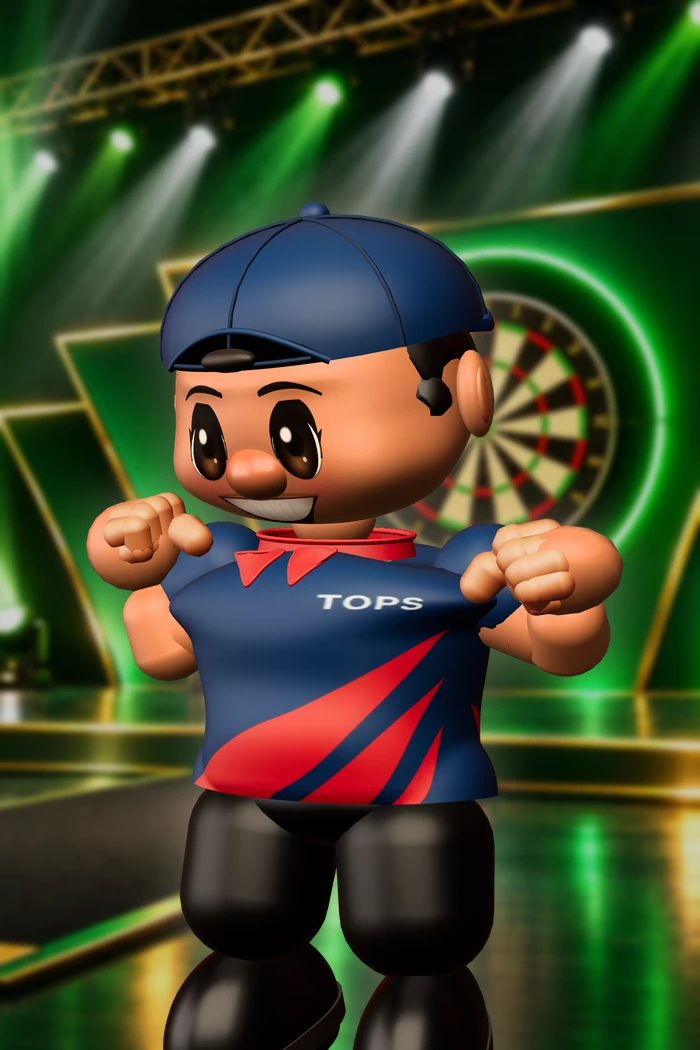
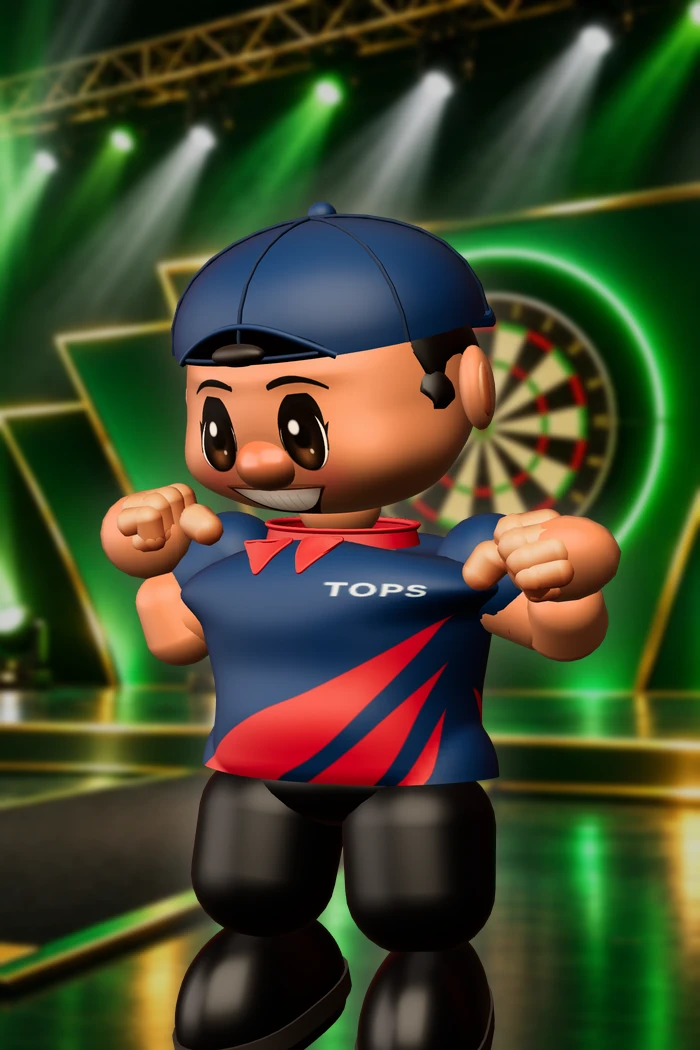
r8c: pro cards, one camera composition for all nine (ChatGPT 7.8, HOLD for switch-on). Each card keeps its doc 71 pose and camera angle; the renderer measures head top, head centre and character height (head top to feet) and zooms (fov) + pans (setViewOffset, no perspective change) to: head top y 20
Claude-Session: https://claude.ai/code/session_01WmQEKVsLutVo52VGmj2r97

diff --git a/tests/v3-cards-render.js b/tests/v3-cards-render.js
@@ -11,19 +11,28 @@ await p.route(/jsdelivr|googleapis|gstatic|supabase\.co/,r=>r.abort());
 await p.addInitScript(([G])=>{try{localStorage.setItem('tops_s3','1');localStorage.setItem('tops_s3_welcome','1');localStorage.setItem('tops_v3','1');localStorage.setItem('tops_v3cast','1');if(G.S3PROS)localStorage.setItem('tops_s3pros','1');}catch(e){}Object.assign(window,G);},[G]);
 await p.goto(`http://127.0.0.1:${srv.address().port}/index.html?s3=1&s3gloss=full&v3cast=1${G.S3PROS?'&s3pros=1':''}`);await p.waitForFunction(()=>typeof V!=='undefined'&&V._qa&&V._qa.rigReady&&V._qa.rigReady(),null,{timeout:240000});
 await p.evaluate(()=>{V.loadAnims();});await p.waitForFunction(()=>V._qa.animNames().length>0,null,{timeout:180000});
-for(const sp of specs){const r=await p.evaluate(async(sp)=>{const Q=V._qa,T=Q.T,R0=Q.renderer;let f;try{f=Q.makeFigure(lookFor(sp.name),sp.name,0);}catch(e){return {err:e.message};}
+for(const sp of specs){const r=await p.evaluate(async(sp)=>{const Q=V._qa,T=Q.T,R0=Q.renderer;let f;try{const CP0=window.TOPS_V3CARDPOSE,LO=(window.__CARDLOOK&&window.__CARDLOOK[sp.id])||sp.look||(CP0&&CP0.table[sp.id]&&CP0.table[sp.id].look);/* r8c: a card-only look tweak (tests/v3-cards-pros.json 'look'): Power's shipping stand-in without the cap */f=Q.makeFigure(Object.assign(lookFor(sp.name),LO||{}),sp.name,0);}catch(e){return {err:e.message};}
   try{TOPS_V2LIGHT.setMode('match');}catch(e){}try{TOPS_V2LIGHT.relight(f);}catch(e){}
   const sc=new T.Scene();sc.add(f);f.position.set(0,0,0);f.rotation.set(0,0,0);if(f.userData.mixer)f.userData.mixer.stopAllAction();f.userData.act=null;
   let pose='cheer';const CP=window.TOPS_V3CARDPOSE,spec=CP&&CP.table[sp.id];if(spec&&CP.apply(f,sp.id))pose='card71';else if(f.userData.persBase&&Q.pers(f,'sig',0.5))pose='sig';else{const a=Q.playClip(f,'cheer',{});if(a){a.time=a.getClip().duration*0.40;f.userData.mixer.update(0);}}
   if(f.userData.dt)f.userData.dt.visible=false;f.traverse(o=>{if(o.userData&&(o.userData.spare||o.userData.dart))o.visible=false;});f.updateMatrixWorld(true);try{TOPS_V2LIGHT.relight(f);}catch(e){}let clip=null;try{const c=TOPS_S3CLIP(f);clip=c?{n:c.checked,bad:['pants','arm','cuff','collar','trim','head','fist','skull','dart'].filter(k=>c[k]).map(k=>k+':'+c[k])}:null;}catch(e){clip={err:String(e)};}
   const h=f.userData.B.Head.getWorldPosition(new T.Vector3()),W=1400,H=2100,C=(spec&&pose==='card71')?spec.cam:{yaw:-22,dist:4.4,y:-.3,ly:-.42,px:0,fov:30},cam=new T.PerspectiveCamera(C.fov||30,W/H,.05,60),rr=C.yaw*Math.PI/180,rt=new T.Vector3(Math.cos(rr),0,Math.sin(rr));
   cam.position.set(h.x+Math.sin(rr)*C.dist,h.y+C.y,h.z-Math.cos(rr)*C.dist).addScaledVector(rt,-(C.px||0));cam.lookAt(new T.Vector3(h.x,h.y+C.ly,h.z).addScaledVector(rt,-(C.px||0)));/* doc 71: per-card camera (yaw, dist, height, look height, side shift, fov) */
+  /* r8c framing (Producer: standardise the camera composition, not the personalities): measure the head top (every mesh on the head: hair, cap, skull), the
+     head centre (skull) and the feet (foot bones), projected; then, if a target is given (window.__CARDFRAME {top, height, cx} in render px), zoom (fov, about
+     the frame centre) to the target character height and pan (setViewOffset, no perspective change) to put the head top and head centre on target */
+  const meas=()=>{cam.updateMatrixWorld(true);cam.updateProjectionMatrix();const v=new T.Vector3(),pr=w=>{const q=w.clone().project(cam);return [(q.x+1)/2*W,(1-q.y)/2*H];};let top=1e9;const Hb=f.userData.B.Head;Hb.traverse(q=>{if(!q.isMesh||!q.visible||!q.geometry||!q.geometry.attributes.position)return;q.updateMatrixWorld(true);const P_=q.geometry.attributes.position;for(let i=0;i<P_.count;i+=3){v.fromBufferAttribute(P_,i).applyMatrix4(q.matrixWorld);const y=pr(v)[1];if(y<top)top=y;}});
+   let sk=null;f.traverse(q=>{if(q.isMesh&&q.userData.tag==='skull'&&!sk)sk=q;});let x0=1e9,x1=-1e9;if(sk){const P_=sk.geometry.attributes.position;for(let i=0;i<P_.count;i+=2){v.fromBufferAttribute(P_,i).applyMatrix4(sk.matrixWorld);const x=pr(v)[0];if(x<x0)x0=x;if(x>x1)x1=x;}}
+   const B_=f.userData.B;let feet=-1e9;for(const n of ['LeftFoot','RightFoot','LeftToeBase','RightToeBase'])if(B_[n]){const y=pr(B_[n].getWorldPosition(new T.Vector3()))[1];if(y>feet)feet=y;}return {top:+top.toFixed(1),feet:+feet.toFixed(1),height:+(feet-top).toFixed(1),cx:+((x0+x1)/2).toFixed(1)};};
+  const fr0=meas();let fr1=fr0,adj=null;const TG=window.__CARDFRAME&&(window.__CARDFRAME[sp.id]||(window.__CARDFRAME.height?window.__CARDFRAME:null));
+  if(TG){const k=TG.height/fr0.height;cam.fov=2*Math.atan(Math.tan(cam.fov*Math.PI/360)/k)*180/Math.PI;cam.updateProjectionMatrix();const m1=meas();const dy=TG.top-m1.top,dx=(TG.cx!=null?TG.cx-m1.cx:0);cam.setViewOffset(W,H,-dx,-dy,W,H);fr1=meas();adj={k:+k.toFixed(4),dx:+dx.toFixed(1),dy:+dy.toFixed(1)};}
   const sz=R0.getSize(new T.Vector2()),pr=R0.getPixelRatio(),cc=R0.getClearColor(new T.Color()),ca=R0.getClearAlpha(),st=R0.getScissorTest(),cv0=R0.domElement;
   const grab=bg=>{R0.setRenderTarget(null);R0.setScissorTest(false);R0.setViewport(0,0,W,H);R0.setClearColor(bg,1);R0.clear();R0.render(sc,cam);const c=document.createElement('canvas');c.width=W;c.height=H;c.getContext('2d').drawImage(cv0,0,0,W,H,0,0,W,H);return c.getContext('2d').getImageData(0,0,W,H).data;};
-  R0.setPixelRatio(1);R0.setSize(W,H,false);let K,Wt;try{K=grab(0x000000);Wt=grab(0xffffff);}finally{R0.setPixelRatio(pr);R0.setSize(sz.x,sz.y,false);R0.setClearColor(cc,ca);R0.setScissorTest(st);}
+  const SL=window.TOPS_V3SKSHOT,SLV=(window.__SKINLIFT&&window.__SKINLIFT[sp.id])||sp.skinLift||1;/* r8c: per-card skin light (Barneveld: his darker skin, face to the lights) */R0.setPixelRatio(1);R0.setSize(W,H,false);let K,Wt;try{if(SL)SL.value=SLV;K=grab(0x000000);Wt=grab(0xffffff);}finally{if(SL)SL.value=1;R0.setPixelRatio(pr);R0.setSize(sz.x,sz.y,false);R0.setClearColor(cc,ca);R0.setScissorTest(st);}
   const big=document.createElement('canvas');big.width=W;big.height=H;const bx=big.getContext('2d'),im=bx.createImageData(W,H),o=im.data;
   for(let i=0;i<o.length;i+=4){const al=Math.max(0,Math.min(1,1-((Wt[i]-K[i])+(Wt[i+1]-K[i+1])+(Wt[i+2]-K[i+2]))/(3*255)));o[i+3]=Math.round(al*255);if(al>0.004){o[i]=Math.min(255,K[i]/al);o[i+1]=Math.min(255,K[i+1]/al);o[i+2]=Math.min(255,K[i+2]/al);}}
   bx.putImageData(im,0,0);let top=-1;for(let y=0;y<H&&top<0;y++)for(let x=0;x<W;x+=2)if(o[(y*W+x)*4+3]>40){top=y;break;}
-  const res={png:big.toDataURL('image/png'),pose,v3:!!(f.userData.s3rig&&f.userData.s3rig.v3),top,clip,cx:spec&&spec.plate?spec.plate.cx:null};Q.dispose(f);return res;},sp);
- if(r.err){console.log(sp.id,'ERR',r.err);continue;}fs.writeFileSync(`${out}/${sp.id}_fig.png`,Buffer.from(r.png.split(',')[1],'base64'));console.log(sp.id,JSON.stringify({pose:r.pose,v3:r.v3,topPx700:Math.round(r.top/2),clip:r.clip,cx:r.cx}));}
+  /* r8c framing: the skull (face shell) projected, in render px: top, bottom, centre */let hd=null;{let sk=null;f.traverse(q=>{if(q.isMesh&&q.userData.tag==='skull'&&!sk)sk=q;});if(sk){const P_=sk.geometry.attributes.position,v=new T.Vector3();let y0=1e9,y1=-1e9,x0=1e9,x1=-1e9;for(let i=0;i<P_.count;i++){v.fromBufferAttribute(P_,i).applyMatrix4(sk.matrixWorld).project(cam);const px=(v.x+1)/2*W,py=(1-v.y)/2*H;if(py<y0)y0=py;if(py>y1)y1=py;if(px<x0)x0=px;if(px>x1)x1=px;}hd={top:+y0.toFixed(1),bot:+y1.toFixed(1),cx:+((x0+x1)/2).toFixed(1),cy:+((y0+y1)/2).toFixed(1),h:+(y1-y0).toFixed(1)};}}
+  const res={fr0,fr1,adj,png:big.toDataURL('image/png'),pose,v3:!!(f.userData.s3rig&&f.userData.s3rig.v3),top,clip,cx:spec&&spec.plate?spec.plate.cx:null,hd};Q.dispose(f);return res;},sp);
+ if(r.err){console.log(sp.id,'ERR',r.err);continue;}fs.writeFileSync(`${out}/${sp.id}_fig.png`,Buffer.from(r.png.split(',')[1],'base64'));fs.writeFileSync(`${out}/${sp.id}_fig.json`,JSON.stringify({top:r.top,hd:r.hd,clip:r.clip,pose:r.pose,fr0:r.fr0,fr1:r.fr1,adj:r.adj}));console.log(sp.id,JSON.stringify({pose:r.pose,v3:r.v3,topPx700:Math.round(r.top/2),clip:r.clip,cx:r.cx,fr0:r.fr0,fr1:r.fr1,adj:r.adj}));}
 if(pe.length)console.log('ERR',pe.slice(0,2).join(' | '));await b.close();srv.close();})();

diff --git a/tests/v3-cardart.js b/tests/v3-cardart.js
@@ -13,4 +13,12 @@ for(const v3 of [1,0]){const p=await (await b.newContext()).newPage();await p.ro
   if(v3&&!v3p)fails.push(`v3 ${id}: ${o.once}`);if(!v3&&v3p)fails.push(`v2 ${id} took the v3 art: ${o.once}`);if(/s3\/v3\/s3\//.test(o.twice)||/s3\/v3\/s3\//.test(o.viaHTML))fails.push(`${id}: nested ${o.twice} ${o.viaHTML}`);
   if(v3&&!(Array.isArray(o.ok)&&o.ok[0]===700&&o.ok[1]===1050))fails.push(`v3 ${id}: did not load at 700x1050 (${JSON.stringify(o.ok)})`);}
  console.log(v3?'v3':'v2',JSON.stringify({flag:r.flag,price:r.out.price}));await p.close();}
-console.log(fails.length?'V3-CARDART FAIL '+JSON.stringify(fails.slice(0,10)):'V3-CARDART PASS (9 pro cards: v3 art under ?v3=1 and loads 700x1050; no nested swap; v2 keeps today\'s art)');await b.close();srv.close();process.exit(fails.length?1:0);})();
+/* r8c framing check (Producer: standardise the composition): tests/v3-cards-frame-measured.json holds, per card, what the renderer measured (card px):
+   head top, character height (head top to feet), head centre x, the clip check, and the sha256 of the webp it made. The shipped art must be those files,
+   and across the nine: head top and head x each within 5% (of the card height / width), height within 5% (max/min), head top >= 120 (safe area), 0 clip fails */
+let fr='';{const FM=path.join(__dirname,'v3-cards-frame-measured.json');if(!fs.existsSync(FM))fails.push('framing: no tests/v3-cards-frame-measured.json');else{const M=JSON.parse(fs.readFileSync(FM,'utf8')).cards,crypto=require('crypto');const T=[],Hh=[],X=[];
+ for(const id of ids){const m=M[id];if(!m){fails.push('framing: '+id+' not measured');continue;}const f=path.join(dir,'s3/v3/assets/cards/art/'+id+'.webp');let h='';try{h=crypto.createHash('sha256').update(fs.readFileSync(f)).digest('hex');}catch(e){}
+  if(h!==m.sha256)fails.push(`framing: ${id}.webp is not the measured render (re-render with tests/v3-cards-render.js)`);if(m.headTop<120)fails.push(`framing: ${id} head top ${m.headTop} < 120`);if(m.clip&&m.clip.bad&&m.clip.bad.length)fails.push(`framing: ${id} clip ${m.clip.bad}`);T.push(m.headTop);Hh.push(m.height);X.push(m.headCx);}
+ const sp=a=>Math.max(...a)-Math.min(...a);if(T.length){if(sp(T)>0.05*1050)fails.push(`framing: head top spread ${sp(T).toFixed(1)} px > 5% of 1050`);if(Math.max(...Hh)/Math.min(...Hh)>1.0505/* 5%, plus rounding */)fails.push(`framing: character height ${Math.min(...Hh)}-${Math.max(...Hh)} differs by more than 5%`);if(sp(X)>0.05*700)fails.push(`framing: head x spread ${sp(X).toFixed(1)} px > 5% of 700`);
+  fr=`; framing: head top ${Math.min(...T)}-${Math.max(...T)}, height ${Math.min(...Hh)}-${Math.max(...Hh)} (${((Math.max(...Hh)/Math.min(...Hh)-1)*100).toFixed(1)}%), head x ${Math.min(...X)}-${Math.max(...X)}`;}}}
+console.log(fails.length?'V3-CARDART FAIL '+JSON.stringify(fails.slice(0,10)):'V3-CARDART PASS (9 pro cards: v3 art under ?v3=1 and loads 700x1050; no nested swap; v2 keeps today\'s art'+fr+')');await b.close();srv.close();process.exit(fails.length?1:0);})();

diff --git a/game4.js b/game4.js
@@ -1351,7 +1351,7 @@ function progRescue(bad,sc){PG.fails+=bad.length;const props=renderer.properties
     let a=sm(P.in,P.out,md)*(1-sm(1.25,1.5,md))*(th>2.2||Math.abs(ph)>0.3?1:0.5);if(a<=0)continue;a*=P.a*(0.75+0.25*rn());const q=4*(yy*w+xx);for(let c=0;c<3;c++)d[q+c]=d[q+c]+(P.col[c]-d[q+c])*a;}}
   x.putImageData(im,x0,y0);}
  /* the skin-map paint passes over the face sheet (doc 67 stubble, doc 68 Dazza junction), shared by the build and v3Mood */
- const V3SKSHOT={value:1};/* r8c (ChatGPT: the flat front portrait read too uniformly orange): the light on v3 SKIN during the portrait only (headshot), as a multiplier on its env diffuse + specular. TOPS_PORTSK (default .87); 1 = r8b */
+ const V3SKSHOT={value:1};window.TOPS_V3SKSHOT=V3SKSHOT;/* also the card renderer's per-card skin light (tests/v3-cards-render.js 'skinLift') *//* r8c (ChatGPT: the flat front portrait read too uniformly orange): the light on v3 SKIN during the portrait only (headshot), as a multiplier on its env diffuse + specular. TOPS_PORTSK (default .87); 1 = r8b */
  function v3SkinPaint(x,W,H,L){if(V3H67()&&(L._cast||L._p70)&&L.face==='stubble')v3Stubble67(x,W,H,L);if(V3D68('D')&&L.base==='dazza')v3BeardRing68(x,W,H);}
  const v3NeedsSkinPaint=L=>!!L&&((V3H67()&&(L._cast||L._p70)&&L.face==='stubble')||(V3D68('D')&&L.base==='dazza'));
  function v3HeadMaps(L,sk,rough){const big=S3G==='full'?2048:1536,FW=big,FH=big/2,F0=V3P.face,face=v3FaceSheet(L,sk);
